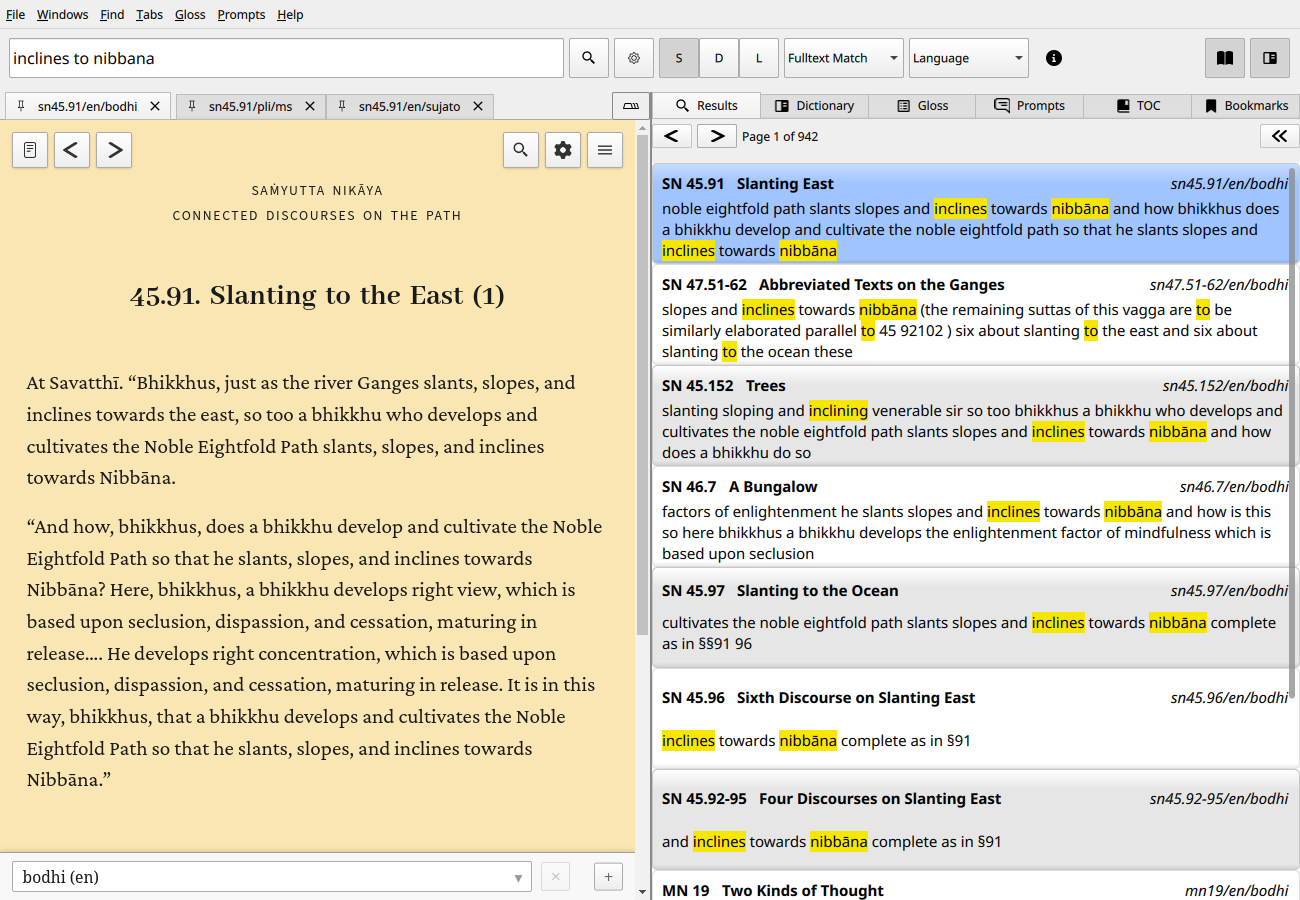
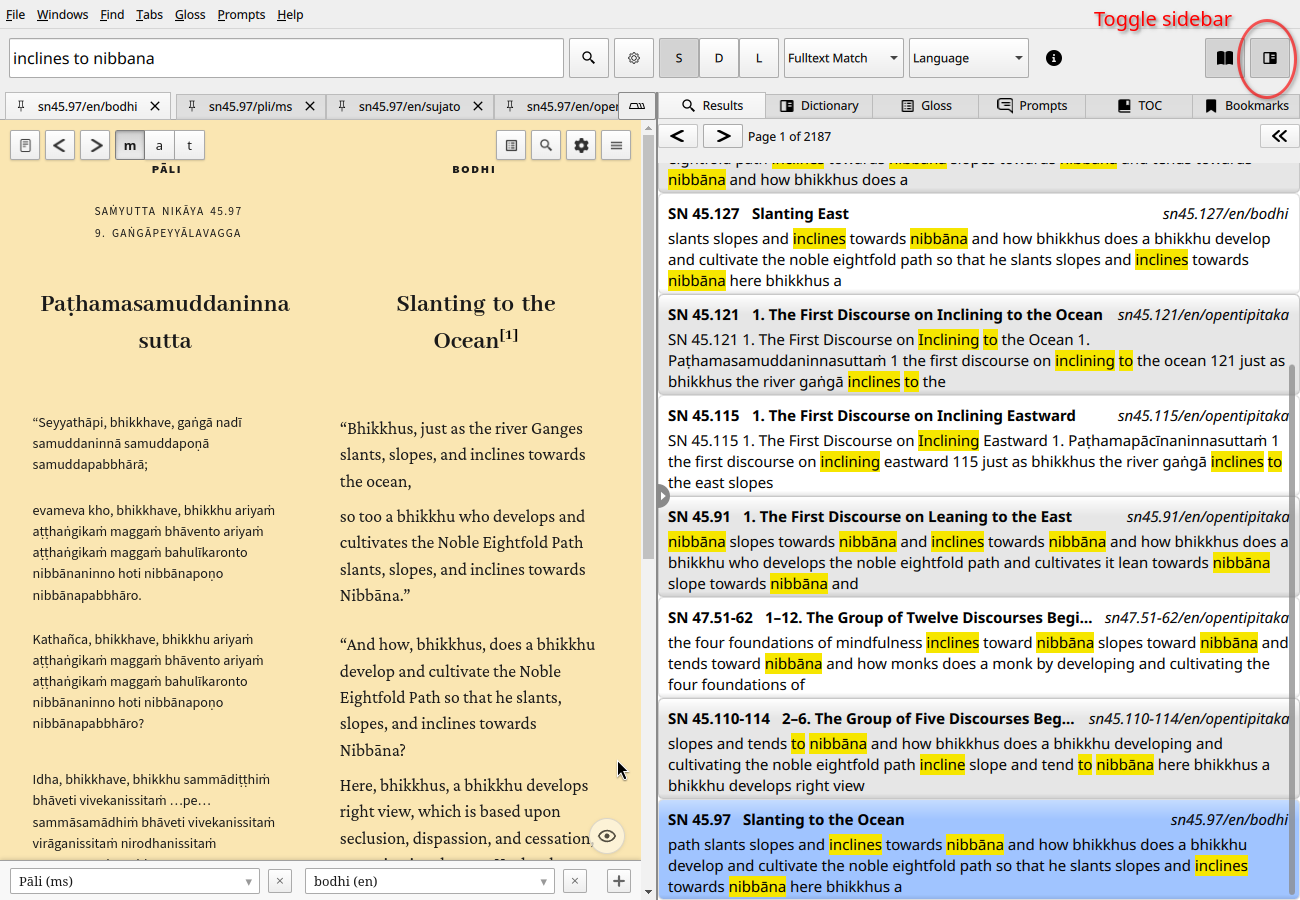
upd

diff --git a/docs/features/app-windows.md b/docs/features/app-windows.md
@@ -1,0 +1,115 @@
+# App Windows
+
+## Sutta Search
+
+<a href="/images/sutta-search-results-tab-screenshot.png" target="_blank">
+<img alt="Sutta Search - Results Tab" src="/images/sutta-search-results-tab-screenshot.png">
+</a>
+
+## Search Result Filtering
+
+<a href="/images/advanced-search-options.png" target="_blank">
+<img alt="Advanced Search Options" src="/images/advanced-search-options.png">
+</a>
+
+## Gloss Tab
+
+Select a passage in the reader panel and click the Gloss icon:
+
+<a href="/images/gloss-tab-word-in-sentence-dhp44-45.png" target="_blank">
+<img alt="Gloss Tab Word-in-Sentence" src="/images/gloss-tab-word-in-sentence-dhp44-45.png">
+</a>
+
+The default is two rows per word but there is an option for a one row layout. The previous more simple “Headwords” layout
+can be toggled.
+
+It exports to a number of formats such as DOCX. The same glossing task can be done with [the simsapa CLI](cli-localhost-api.md) as well.
+
+<a href="/images/gloss-export-docx-dhp44-45.png" target="_blank">
+<img alt="Gloss Tab Docx Export" src="/images/gloss-export-docx-dhp44-45.png">
+</a>
+
+## Reading Layout Display Settings
+
+<a href="/images/reading-layout-display-settings.png" target="_blank">
+<img alt="Display Settings" src="/images/reading-layout-display-settings.png">
+</a>
+
+
+<a href="/images/reading-mode-three-columns-an4-1.png" target="_blank">
+<img alt="Reading Layout Three Columns" src="/images/reading-mode-three-columns-an4-1.png">
+</a>
+
+## Sutta Navigation
+
+<a href="/images/sutta-navigation.png" target="_blank">
+<img alt="Sutta Navigation" src="/images/sutta-navigation.png">
+</a>
+
+## Topic Index
+
+[CIPS Topic Index](https://index.readingfaithfully.org/) (Comprehensive Index of Pāli Suttas) by Ven. Khemaratana
+
+<a href="/images/topic-index-feeling.png" target="_blank">
+<img alt="Topic Index" src="/images/topic-index-feeling.png">
+</a>
+
+## Sutta Languages
+
+Translations from SuttaCentral
+
+<a href="/images/sutta-languages.png" target="_blank">
+<img alt="Topic Index" src="/images/sutta-languages.png">
+</a>
+
+## CLI with Agents
+
+An npm package provides cli interface to Simsapa for humans and AI agents,
+which uses the same database as the GUI app.
+
+```
+npm install -g @simsapa/cli
+```
+
+More info: [Command Line and Localhost API](cli-localhost-api.md)
+
+<!-- ## Dictionary Search -->
+
+<!-- <a href="/images/dictionary-search-parikkhita-screenshot.png" target="_blank"> -->
+<!-- <img alt="Dictionary Search" src="/images/dictionary-search-parikkhita-screenshot.png"> -->
+<!-- </a> -->
+
+## Dictionary Import
+
+In **Windows > Dictionaries** additional dictionaries can be imported.
+The selections automate importing from [digitalpalidictionary/other-dictionaries](https://github.com/digitalpalidictionary/other-dictionaries/releases/),
+but custom StarDict / GoldenDict format .zip dictionary files can also be imported.
+
+<img alt="Dictionary Import" src="/images/dictionaries-import.png">
+
+<!-- ## Word Lookup -->
+
+<!-- <a href="/images/word-lookup-cittanupassi-screenshot.png" target="_blank"> -->
+<!-- <img alt="Word Lookup" src="/images/word-lookup-cittanupassi-screenshot.png"> -->
+<!-- </a> -->
+
+<!-- ## Bookmarks -->
+
+<!-- <a href="/images/create-bookmark-mn143-screenshot.png" target="_blank"> -->
+<!-- <img alt="Create Bookmark" src="/images/create-bookmark-mn143-screenshot.png"> -->
+<!-- </a> -->
+
+<!-- <a href="/images/bookmarks-browser-mn143-screenshot.png" target="_blank"> -->
+<!-- <img alt="Bookmarks Browser" src="/images/bookmarks-browser-mn143-screenshot.png"> -->
+<!-- </a> -->
+
+<!-- ## Library / Ebook Reader -->
+
+<!-- <a href="/images/ebook-reader-open-epub-screenshot.png" target="_blank"> -->
+<!-- <img alt="Ebook Reader - Open Epub" src="/images/ebook-reader-open-epub-screenshot.png"> -->
+<!-- </a> -->
+
+<!-- <a href="/images/ebook-reader-essential-meaning-sankhara-screenshot.png" target="_blank"> -->
+<!-- <img alt="Ebook Reader" src="/images/ebook-reader-essential-meaning-sankhara-screenshot.png"> -->
+<!-- </a> -->
+

diff --git a/docs/features/dhamma-texts.md b/docs/features/dhamma-texts.md
@@ -1,0 +1,34 @@
+# Dhamma Texts Included in Simsapa
+
+## Suttas
+
+- [suttacentral.net](https://suttacentral.net/)
+  - `pli` and `en` languages by default
+  - other languages as optional downloads via `Windows > Sutta Languages...` menu
+- [tipitaka.org](https://tipitaka.org/cst4) Chaṭṭha Saṅgāyana Tipiṭaka 4
+- [dhammatalks.org](https://www.dhammatalks.org/) Translations by Aj Thanissaro
+- [Dhamma Verses Commentary: A Revised Translation of the Dhammapada Aṭṭhakathā (Revised by Ānandajoti Bhikkhu, 2024)](https://ancient-buddhist-texts.net/English-Texts/Dhamma-Verses-Comm/)
+- [The Birth Stories, Jātakatthavaṇṇanā (Revised by Ānandajoti Bhikkhu, 2023)](https://ancient-buddhist-texts.net/English-Texts/Jataka/)
+- [tipitaka.net](https://www.tipitaka.net/tipitaka/dhp/) The Dhammapada: Verses and Stories Translated by Daw Mya Tin, M.A.
+- [A Dhammapada for Contemplation](https://forestsangha.org/teachings/books/a-dhammapada-for-contemplation?language=English) by Ajahn Munindo
+- [a-buddha-ujja.hu](https://a-buddha-ujja.hu/) Hungarian sutta translations
+- [The Silent Sages of Old](https://archive.org/details/VenDenmarkNyanadipa) Translations by Bhante Nyanadipa
+- [index.readingfaithfully.org](https://index.readingfaithfully.org/) Sutta Index of Topics
+- [opentipitaka.org](https://www.opentipitaka.org/) English translation of the CST texts, produced by AI
+- [patimokkha.jhana.info](https://patimokkha.jhana.info/)Bhikkhu Pāṭimokkha in Pāli-English, Ṭhānissaro Bhikkhu, 2008
+
+## Dictionaries
+
+- `DPD` Digital Pāḷi Dictionary [digitalpalidictionary.github.io](https://digitalpalidictionary.github.io/)
+- `DPPN` Dictionary of Pāli Proper Names [ancient-buddhist-texts.net](https://ancient-buddhist-texts.net/Textual-Studies/DPPN/) (Revised by Ānandajoti Bhikkhu, June 2025)
+
+In **Windows > Dictionaries** additional dictionaries can be imported.
+The selections automate importing from [digitalpalidictionary/other-dictionaries](https://github.com/digitalpalidictionary/other-dictionaries/releases/),
+but custom StarDict / GoldenDict format .zip dictionary files can also be imported.
+
+<img alt="Dictionary Import" src="/images/dictionaries-import.png">
+
+## Reference Conversion
+
+- [palistudies.blogspot.com](https://palistudies.blogspot.com) Learn Pali Language
+- [github.com/dhammavinaya-tools/dhamma-vinaya-catalogue](https://github.com/dhammavinaya-tools/dhamma-vinaya-catalogue) Dhamma Vinaya Catalogue

diff --git a/docs/index.md b/docs/index.md
@@ -2,13 +2,13 @@
 
 A sutta reader and Pāli dictionary application. Feature highlights:
 
-- [Fulltext search](https://simsapa.github.io/features/search-queries/) with Pāli declension matching
-- Search result filtering options
-- Integrates suttas with commentaries, dictionaries and a book library
-- Line-by-line or side-by-side columns layout with multiple translations
-- Pāli text gloss analysis with export formats
+- [Fulltext search](features/search-queries.md) with Pāli declension matching
+  + Suttas, commentaries, dictionaries and a book library
+- [Search result filtering](features/app-windows.md#search-result-filtering) options
+- [Reading layout](features/app-windows.md#reading-layout-display-settings): line-by-line or side-by-side columns with multiple translations
+- [Pāli text gloss analysis](features/app-windows.md#gloss-tab) with export formats
 - [Extensions and plugins](https://github.com/simsapa/simsapa-extensions-and-plugins) for browsers and note taking app
-- Command line interface (`@simsapa/cli` npm package) for humans and AI agents
+- [Command line interface](features/cli-localhost-api.md) (`@simsapa/cli` npm package) for humans and AI agents
 
 Download from the [Releases](https://github.com/simsapa/simsapa/releases) page for Linux, MacOS, Windows.
 For Android, install from from the [Play Store](https://play.google.com/store/apps/details?id=io.github.simsapa.app) 
@@ -23,6 +23,10 @@ Installation guides: [Linux](install/linux.md) / [MacOS](install/macos.md) / [Wi
 
 <a href="/images/sutta-search-results-tab-screenshot.png" target="_blank">
 <img alt="Sutta Search - Results Tab" src="/images/sutta-search-results-tab-screenshot.png">
+</a>
+
+<a href="/images/gloss-tab-word-in-sentence-dhp44-45.png" target="_blank">
+<img alt="Gloss Tab Word-in-Sentence" src="/images/gloss-tab-word-in-sentence-dhp44-45.png">
 </a>
 
 <a href="/images/android-phone-portrait-light-theme.jpg" target="_blank">

diff --git a/docs/features/cli-localhost-api.md b/docs/features/cli-localhost-api.md
@@ -1,0 +1,50 @@
+# Simsapa Command Line and Localhost API
+
+An npm package provides cli interface to Simsapa for humans and AI agents,
+which uses the same database as the GUI app.
+
+```
+npm install -g @simsapa/cli
+```
+
+- `simsapa health` checks status.
+- `simsapa install-skill` sets up skill files so agents know how to use it.
+- See `simsapa help` for more.
+
+It reads API keys from env variables e.g. `GEMINI_API_KEY`
+
+A glossing task as a cli command which saves the results to a DOCX file:
+
+```
+simsapa gloss \
+        --model-name gemini-3.6-flash \
+        --skip-common \
+        --no-duplicates-globally \
+        --no-translate \
+        --format docx \
+        --output gloss-dhp44-45.docx \
+"Ko imaṁ pathaviṁ vicessati,
+Yamalokañca imaṁ sadevakaṁ;
+Ko dhammapadaṁ sudesitaṁ,
+Kusalo pupphamiva pacessati.
+
+Sekho pathaviṁ vicessati,
+Yamalokañca imaṁ sadevakaṁ;
+Sekho dhammapadaṁ sudesitaṁ,
+Kusalo pupphamiva pacessati."
+```
+
+<a href="/images/gloss-export-docx-dhp44-45.png" target="_blank">
+<img alt="Gloss Tab Docx Export" src="/images/gloss-export-docx-dhp44-45.png">
+</a>
+
+When the skill files are installed with `simsapa install-skill`,
+agents such as [opencode.ai](https://opencode.ai/) can perform tasks and include quotes and references from the database instead of being hallucinated.
+
+```
+Use the simsapa cli to find the Vinaya protocols related to Kathina privileges,
+create a PDF document with typst including quotes and uid text references.
+```
+
+<img alt="OpenCode Vinaya Kathina Search" src="/images/opencode-vinaya-kathina-search.png">
+

diff --git a/docs/install/plugins.md b/docs/install/plugins.md
@@ -19,8 +19,6 @@ Github: [simsapa/simsapa-extensions-and-plugins](https://github.com/simsapa/sims
 
 ![Firefox Sidebar](../images/firefox-sidebar-anupadisesa-screenshot.png)
 
-![Firefox Word Lookup](../images/firefox-word-lookup-ditthadhammika-screenshot.png)
-
 ## Install the Chrome plugin
 
 The Chrome plugin is not yet published in the web store.
